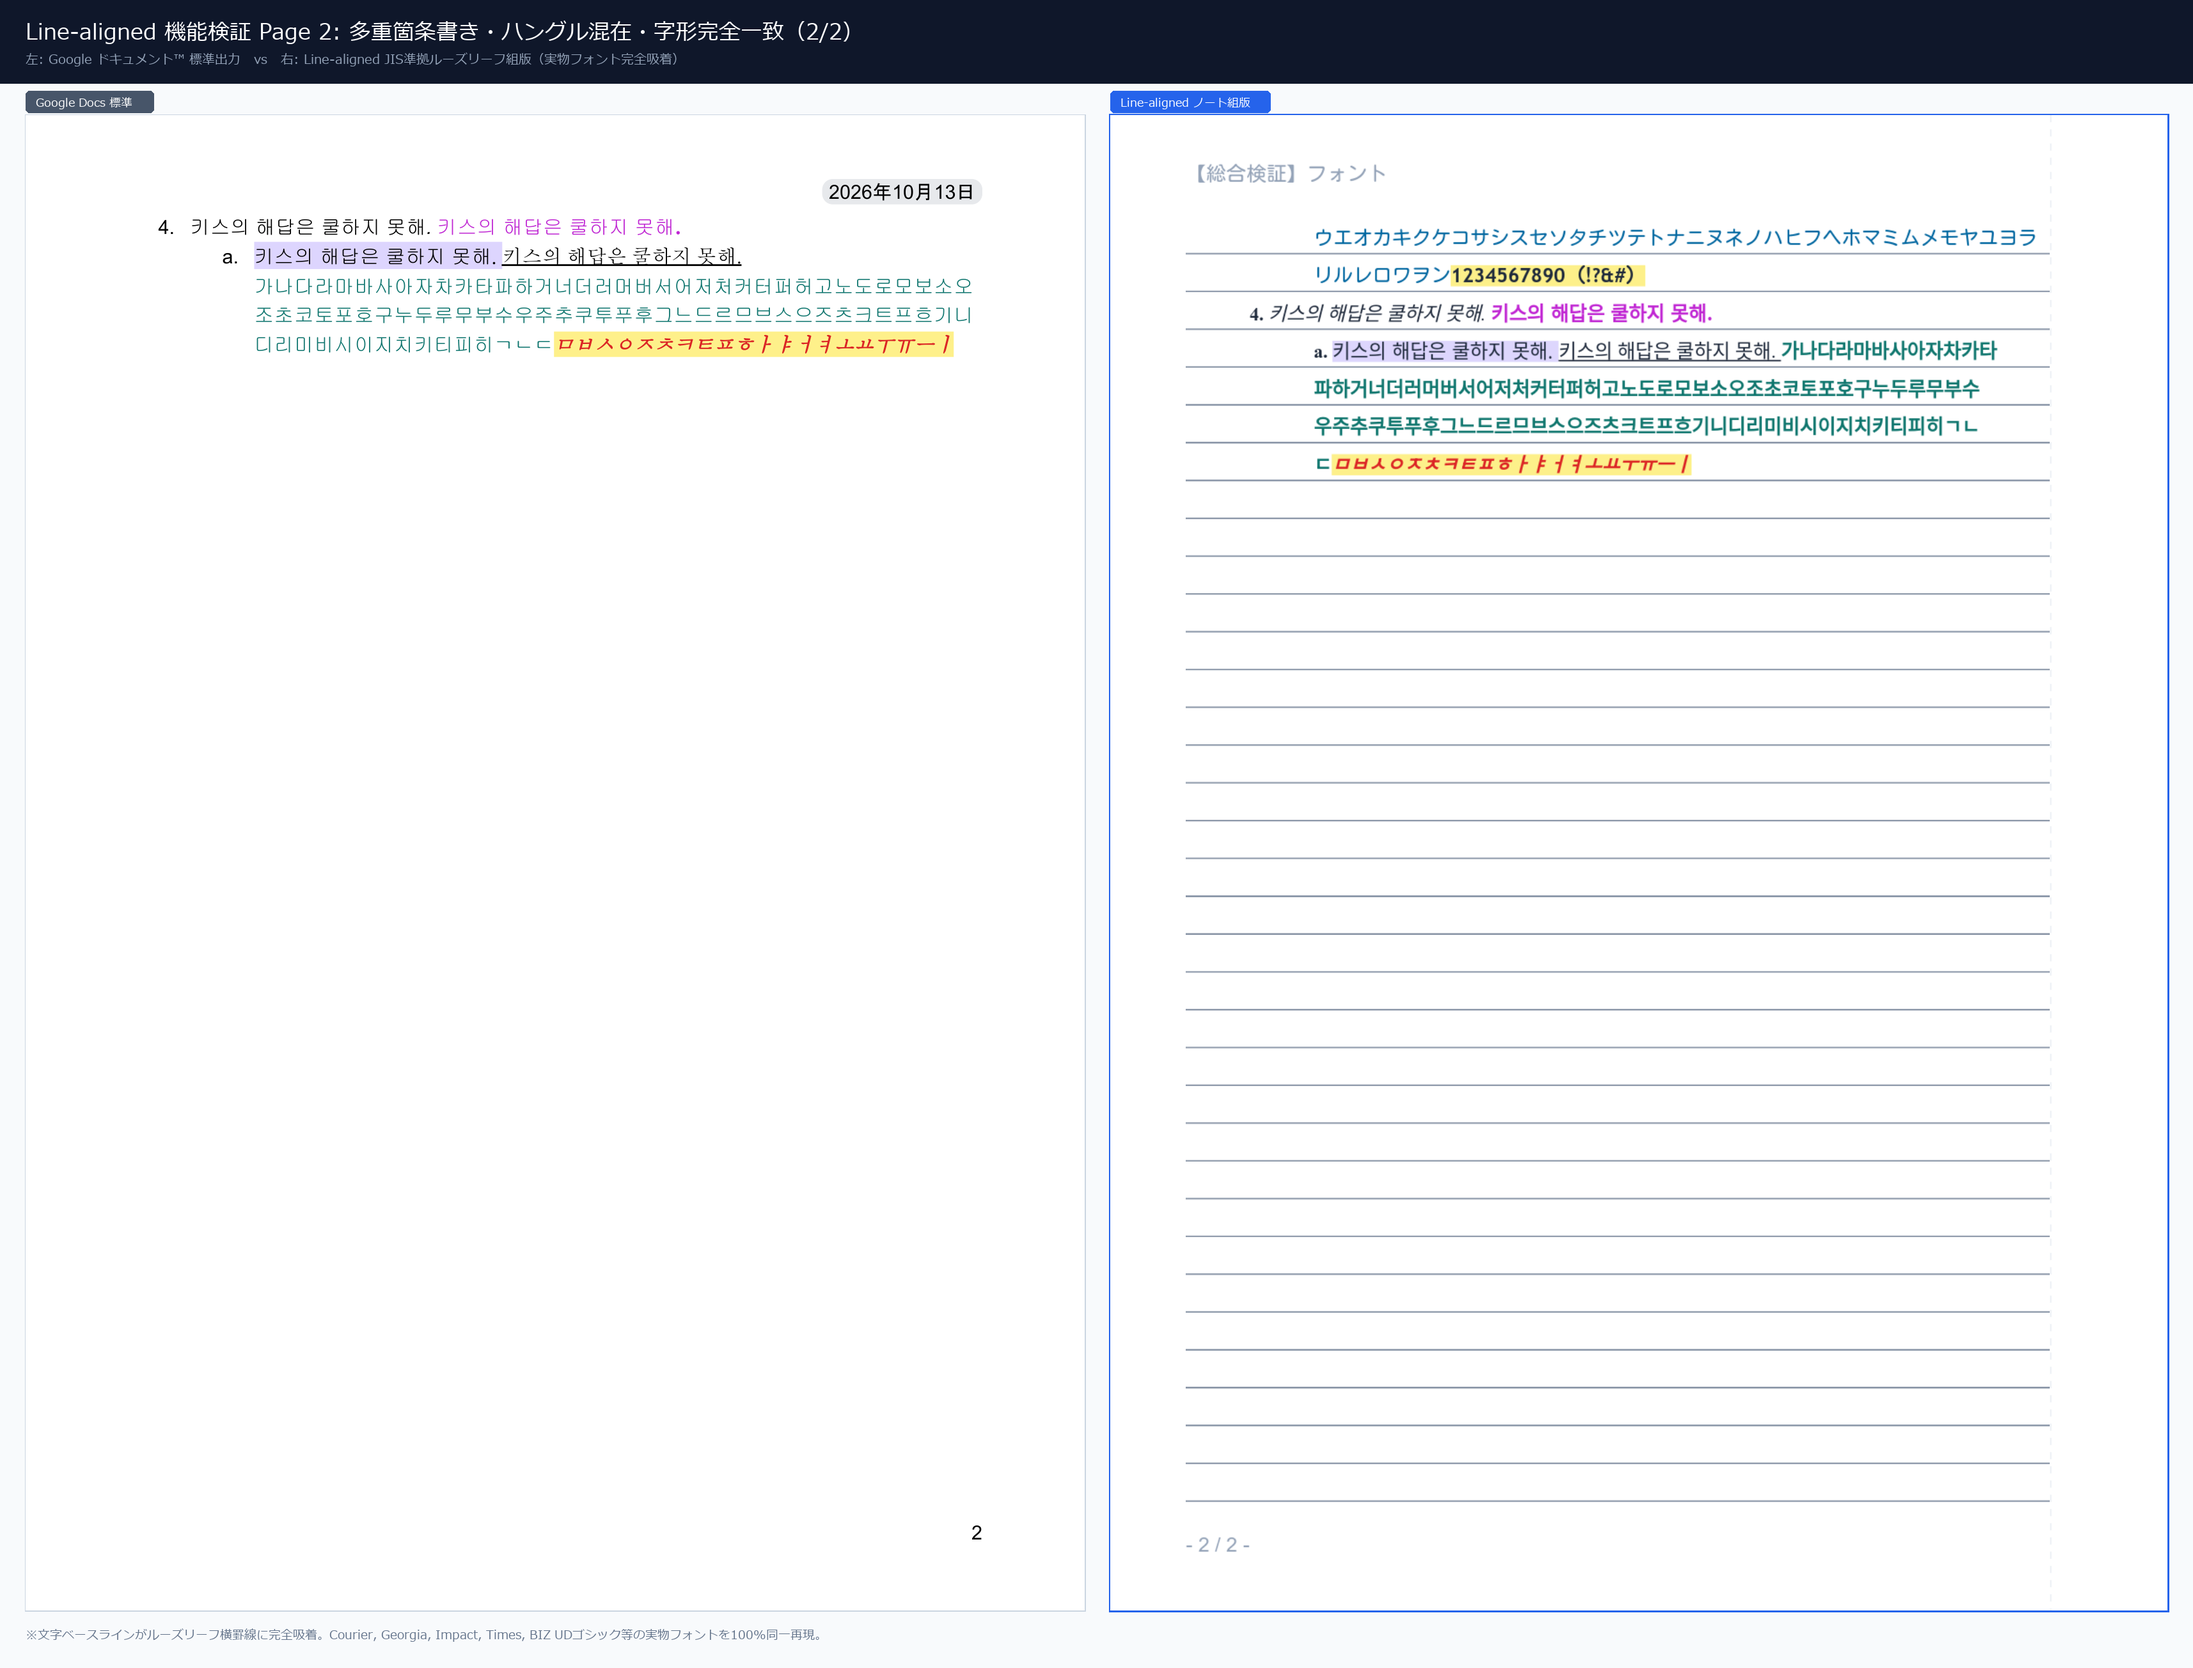
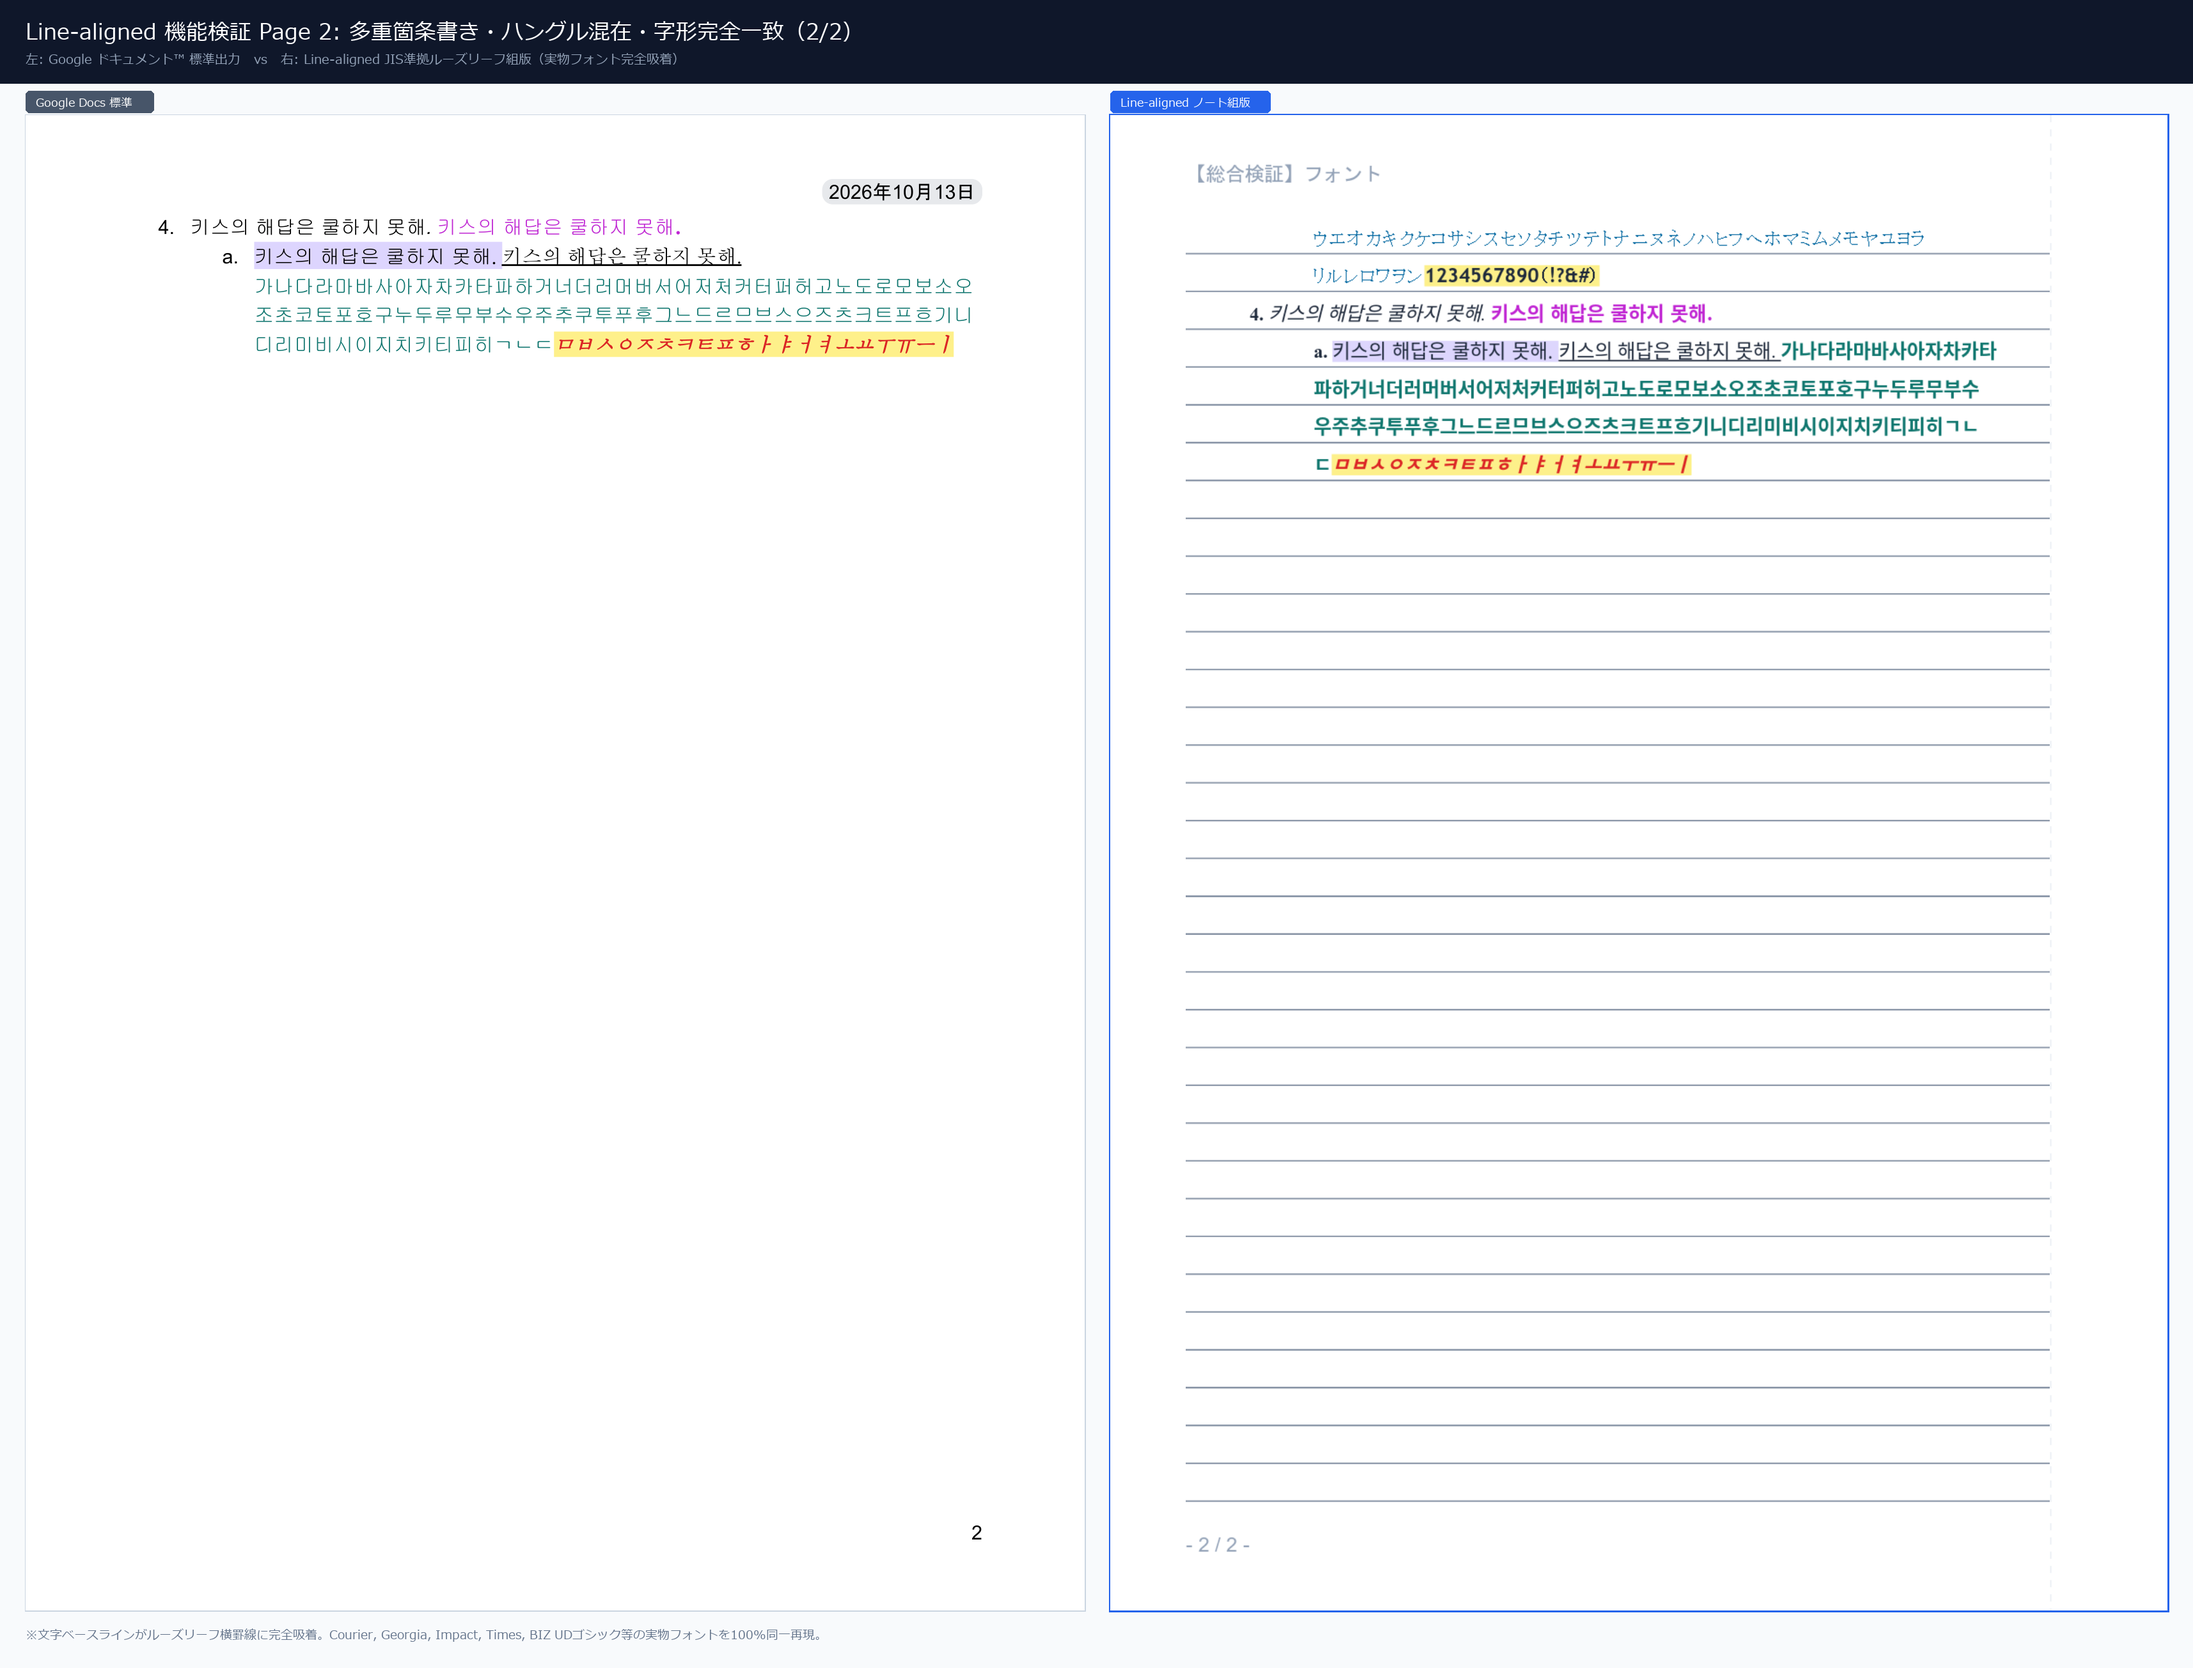
Update font comparison images and cache buster

Changed region(s): [[0.5617, 0.0931, 0.9049, 0.2794]]

diff --git a/index.html b/index.html
@@ -776,8 +776,8 @@
           <div style="font-weight: 700; font-size: 0.95rem; margin-bottom: 0.5rem; color: var(--text);">
             Page 1: テキスト・フォント混在・多重箇条書き
           </div>
-          <div class="image-viewer" onclick="openImageModal('images/font_verification_page_1_比較（左_GoogleDocs_右_Line-aligned）.png?v=20261013_2')" style="cursor: pointer; border-radius: 8px; overflow: hidden; border: 1px solid var(--border); box-shadow: 0 4px 15px rgba(0,0,0,0.05);">
-            <img src="images/font_verification_page_1_比較（左_GoogleDocs_右_Line-aligned）.png?v=20261013_2" alt="Font Verification Page 1 - Left Google Docs, Right Line-aligned Typeset" style="width: 100%; height: auto; display: block;" />
+          <div class="image-viewer" onclick="openImageModal('images/font_verification_page_1_比較（左_GoogleDocs_右_Line-aligned）.png?v=20261013_1641')" style="cursor: pointer; border-radius: 8px; overflow: hidden; border: 1px solid var(--border); box-shadow: 0 4px 15px rgba(0,0,0,0.05);">
+            <img src="images/font_verification_page_1_比較（左_GoogleDocs_右_Line-aligned）.png?v=20261013_1641" alt="Font Verification Page 1 - Left Google Docs, Right Line-aligned Typeset" style="width: 100%; height: auto; display: block;" />
           </div>
           <div style="margin-top: 0.5rem; font-size: 0.8rem; color: var(--text-muted);">
             ※クリックで高解像度拡大表示
@@ -788,8 +788,8 @@
           <div style="font-weight: 700; font-size: 0.95rem; margin-bottom: 0.5rem; color: var(--text);">
             Page 2: 多重箇条書き・ハングル混在・字形完全一致
           </div>
-          <div class="image-viewer" onclick="openImageModal('images/font_verification_page_2_比較（左_GoogleDocs_右_Line-aligned）.png?v=20261013_2')" style="cursor: pointer; border-radius: 8px; overflow: hidden; border: 1px solid var(--border); box-shadow: 0 4px 15px rgba(0,0,0,0.05);">
-            <img src="images/font_verification_page_2_比較（左_GoogleDocs_右_Line-aligned）.png?v=20261013_2" alt="Font Verification Page 2 - Left Google Docs, Right Line-aligned Typeset" style="width: 100%; height: auto; display: block;" />
+          <div class="image-viewer" onclick="openImageModal('images/font_verification_page_2_比較（左_GoogleDocs_右_Line-aligned）.png?v=20261013_1641')" style="cursor: pointer; border-radius: 8px; overflow: hidden; border: 1px solid var(--border); box-shadow: 0 4px 15px rgba(0,0,0,0.05);">
+            <img src="images/font_verification_page_2_比較（左_GoogleDocs_右_Line-aligned）.png?v=20261013_1641" alt="Font Verification Page 2 - Left Google Docs, Right Line-aligned Typeset" style="width: 100%; height: auto; display: block;" />
           </div>
           <div style="margin-top: 0.5rem; font-size: 0.8rem; color: var(--text-muted);">
             ※クリックで高解像度拡大表示
